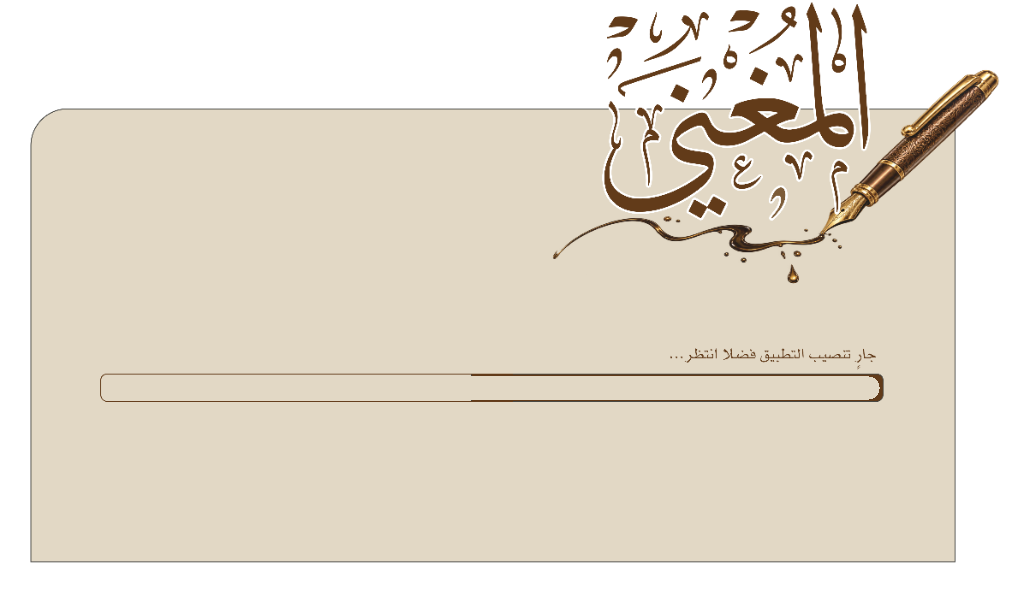
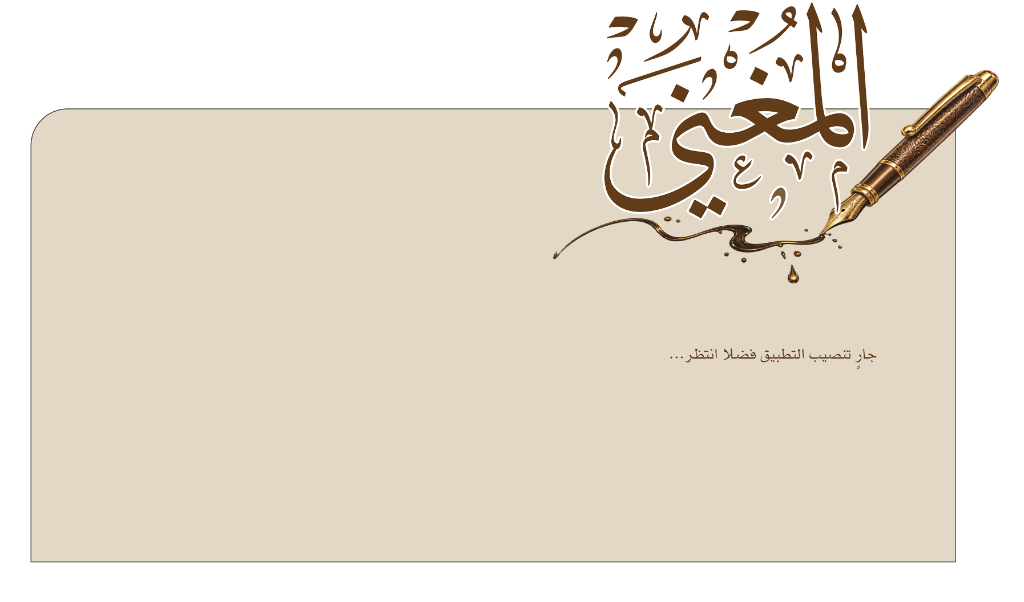
1.10.571: لوحة التنصيب هي الصورة الجديدة كما هي

diff --git a/macos/AlMujtahedLauncher.swift b/macos/AlMujtahedLauncher.swift
@@ -545,17 +545,12 @@ final class Launcher: NSObject, NSApplicationDelegate, NSWindowDelegate {
     private var lastSampleAt = Date()
     private var lastSampleBytes: Int64 = 0
     private var speedBps: Double = 0
-    private var boardView: NSImageView?
-    private var boardBase: CGImage?
-    private var boardPoint = NSSize.zero
-    private var boardBacking: CGFloat = 2
-    private var boardShown = -1
     private var etaSeconds: TimeInterval = -1
     private var etaMarkedAt = Date()
     private let support = FileManager.default.homeDirectoryForCurrentUser
         .appendingPathComponent("Library/Application Support/Al-Mujtahed", isDirectory: true)
     private var statusURL: URL { support.appendingPathComponent("status.txt") }
-    private let interfaceURL = URL(string: "http://127.0.0.1:8085/?v=1.10.570")!
+    private let interfaceURL = URL(string: "http://127.0.0.1:8085/?v=1.10.571")!
     private let ink = NSColor(srgbRed: 0.165, green: 0.133, blue: 0.102, alpha: 1)
     private let clay = NSColor(srgbRed: 0.710, green: 0.416, blue: 0.298, alpha: 1)
     private let emerald = NSColor(srgbRed: 0.184, green: 0.435, blue: 0.369, alpha: 1)
@@ -686,7 +681,7 @@ final class Launcher: NSObject, NSApplicationDelegate, NSWindowDelegate {
     }
 
     private var appVersion: String {
-        Bundle.main.object(forInfoDictionaryKey: "CFBundleShortVersionString") as? String ?? "1.10.570"
+        Bundle.main.object(forInfoDictionaryKey: "CFBundleShortVersionString") as? String ?? "1.10.571"
     }
 
     private func buildWindow() {
@@ -828,26 +823,6 @@ final class Launcher: NSObject, NSApplicationDelegate, NSWindowDelegate {
             board.image = image
             board.layer?.contentsScale = scale
             content.addSubview(board)
-            boardView = board
-            boardPoint = point
-            boardBacking = scale
-            if let data = try? Data(contentsOf: url),
-               let source = CGImageSourceCreateWithData(data as CFData, nil) {
-                boardBase = CGImageSourceCreateImageAtIndex(source, 0, nil)
-            }
-            let hit = NSButton(frame: NSRect(
-                x: 634 / scale,
-                y: (pixels.height - 525) / scale,
-                width: 218 / scale,
-                height: 48 / scale
-            ))
-            hit.title = ""
-            hit.isBordered = false
-            hit.isTransparent = true
-            hit.target = self
-            hit.action = #selector(deleteApplication)
-            content.addSubview(hit)
-            paintBoard(percent: 0)
         } else {
             content.addSubview(board)
         }
@@ -1120,71 +1095,6 @@ final class Launcher: NSObject, NSApplicationDelegate, NSWindowDelegate {
         stopListener(port: 8085, marker: "server.py")
     }
 
-    /// الشريط وزر الحذف يُرسمان على بكسلات الصورة كما هي، والنافذة بنصفها على شاشة ريتينا حتى لا تُكبَّر فتبهت.
-    private func paintBoard(percent: Double) {
-        guard let base = boardBase, let boardView else { return }
-        let shown = Int(percent.rounded())
-        if shown == boardShown { return }
-        boardShown = shown
-        let width = base.width
-        let height = base.height
-        guard let ctx = CGContext(
-            data: nil,
-            width: width,
-            height: height,
-            bitsPerComponent: 8,
-            bytesPerRow: 0,
-            space: base.colorSpace ?? CGColorSpaceCreateDeviceRGB(),
-            bitmapInfo: CGImageAlphaInfo.premultipliedLast.rawValue | CGBitmapInfo.byteOrder32Big.rawValue
-        ) else { return }
-        ctx.interpolationQuality = .none
-        ctx.draw(base, in: CGRect(x: 0, y: 0, width: width, height: height))
-        let track = CGRect(x: 104, y: CGFloat(height) - 399, width: 775, height: 23)
-        let fraction = max(0, min(1, percent / 100))
-        ctx.saveGState()
-        ctx.addPath(CGPath(roundedRect: track, cornerWidth: 11, cornerHeight: 11, transform: nil))
-        ctx.clip()
-        let fillWidth = track.width * CGFloat(fraction)
-        if fillWidth > 0 {
-            ctx.setFillColor(CGColor(srgbRed: 98 / 255, green: 59 / 255, blue: 25 / 255, alpha: 1))
-            ctx.fill(CGRect(x: track.maxX - fillWidth, y: track.minY, width: fillWidth, height: track.height))
-        }
-        ctx.restoreGState()
-        let onFill = fraction >= 0.5
-        let ink = onFill
-            ? NSColor(srgbRed: 241 / 255, green: 230 / 255, blue: 210 / 255, alpha: 1)
-            : NSColor(srgbRed: 98 / 255, green: 59 / 255, blue: 25 / 255, alpha: 1)
-        drawCentered("\(shown)٪", in: track, context: ctx, color: ink, size: 13)
-        let button = CGRect(x: 634, y: CGFloat(height) - 525, width: 218, height: 48)
-        ctx.setFillColor(CGColor(srgbRed: 98 / 255, green: 59 / 255, blue: 25 / 255, alpha: 1))
-        ctx.addPath(CGPath(roundedRect: button, cornerWidth: 16, cornerHeight: 16, transform: nil))
-        ctx.fillPath()
-        drawCentered(
-            "حذف التطبيق",
-            in: button,
-            context: ctx,
-            color: NSColor(srgbRed: 241 / 255, green: 230 / 255, blue: 210 / 255, alpha: 1),
-            size: 20
-        )
-        guard let painted = ctx.makeImage() else { return }
-        boardView.image = NSImage(cgImage: painted, size: boardPoint)
-        boardView.layer?.contentsScale = boardBacking
-    }
-
-    private func drawCentered(_ text: String, in rect: CGRect, context ctx: CGContext, color: NSColor, size: CGFloat) {
-        let font = CTFontCreateWithName(almarai(size, bold: true).fontName as CFString, size, nil)
-        let line = CTLineCreateWithAttributedString(NSAttributedString(string: text, attributes: [
-            .font: font,
-            .foregroundColor: color
-        ]))
-        var ascent: CGFloat = 0
-        var descent: CGFloat = 0
-        let textWidth = CGFloat(CTLineGetTypographicBounds(line, &ascent, &descent, nil))
-        ctx.textMatrix = .identity
-        ctx.textPosition = CGPoint(x: rect.midX - textWidth / 2, y: rect.midY - (ascent - descent) / 2)
-        CTLineDraw(line, ctx)
-    }
-
     private func refreshProgress(resetSpeed: Bool) {
         if ready { return }
         var message = currentStatus()
@@ -1214,7 +1124,6 @@ final class Launcher: NSObject, NSApplicationDelegate, NSWindowDelegate {
             : percent
         progressBar.fraction = CGFloat(shown / 100)
         percentValue.stringValue = "\(Int(shown.rounded()))%"
-        paintBoard(percent: shown)
         if installing {
             speedCaption?.stringValue = "نسبة التركيب"
             loadedCaption?.stringValue = ""
@@ -1294,7 +1203,6 @@ final class Launcher: NSObject, NSApplicationDelegate, NSWindowDelegate {
         readyAt = Date()
         progressBar.fraction = 1
         percentValue.stringValue = "100%"
-        paintBoard(percent: 100)
         speedValue.stringValue = speedText()
         let transfer = transferState()
         if transfer.received > 0 {

diff --git a/web_ui/templates/index.html b/web_ui/templates/index.html
@@ -7,7 +7,7 @@
     <title>المجتهد | من الفكرة إلي النشر</title>
     <meta name="description"
         content="منظومة المجتهد - من الفكرة إلي النشر، مع محادثة ذكية ووكلاء مساعدين">
-    <link rel="stylesheet" href="/static/css/claude_theme.css?v=1.10.570">
+    <link rel="stylesheet" href="/static/css/claude_theme.css?v=1.10.571">
     <link rel="preconnect" href="https://fonts.googleapis.com">
     <link rel="preconnect" href="https://fonts.gstatic.com" crossorigin>
     <link
@@ -25,8 +25,8 @@
         <div class="header-top">
             <div class="brand-section">
                 <div class="brand-title">
-                    <img class="brand-mark" src="/static/brand-mark.png?v=1.10.570" alt="المجتهد">
-                    <span class="brand-version" id="appVersionLabel">إصدار رقم 1.10.570 (نسخة تجريبية)</span>
+                    <img class="brand-mark" src="/static/brand-mark.png?v=1.10.571" alt="المجتهد">
+                    <span class="brand-version" id="appVersionLabel">إصدار رقم 1.10.571 (نسخة تجريبية)</span>
                 </div>
                 <span class="brand-subtitle-1">من الفكرة إلي النشر</span>
             </div>
@@ -6045,7 +6045,7 @@
     <script src="/static/js/markmap-lib.min.js"></script>
     <script src="/static/js/g6.min.js"></script>
     <script src="/static/js/g2.min.js"></script>
-    <script src="/static/js/app.js?v=1.10.570"></script>
+    <script src="/static/js/app.js?v=1.10.571"></script>
     <script src="/static/js/search.js?v=1.10.493"></script>
     <script src="/static/js/reader.js?v=1.10.493"></script>
     <script src="/static/js/force3d.js?v=1.10.493"></script>
@@ -6053,12 +6053,12 @@
     <script src="/static/js/chat.js?v=1.10.493"></script>
     <script src="/static/js/designs.js?v=1.10.493"></script>
     <script src="/static/js/texts.js?v=1.10.493"></script>
-    <script src="/static/js/agents.js?v=1.10.570"></script>
+    <script src="/static/js/agents.js?v=1.10.571"></script>
     <script src="/static/js/providers.js?v=1.10.493"></script>
     <script src="/static/js/tools.js?v=1.10.493"></script>
     <script src="/static/js/shamela_link.js?v=1.10.493"></script>
     <script src="/static/js/projects.js?v=1.10.493"></script>
-    <script src="/static/js/manuscripts.js?v=1.10.570"></script>
+    <script src="/static/js/manuscripts.js?v=1.10.571"></script>
     <script src="/static/js/archive.js?v=1.10.493"></script>
     <script src="/static/js/compare.js?v=1.10.493"></script>
     <script src="/static/js/local_models.js?v=1.10.493"></script>

diff --git a/web_ui/templates/auth.html b/web_ui/templates/auth.html
@@ -259,7 +259,7 @@
                 <div class="auth-logo" id="authLogo">🌟</div>
                 <div class="auth-title-row">
                     <h1 class="auth-title" id="authTitle">منظومة المجتهد</h1>
-                    <p class="auth-version" id="appVersionLabel">إصدار رقم 1.10.570 (نسخة تجريبية)</p>
+                    <p class="auth-version" id="appVersionLabel">إصدار رقم 1.10.571 (نسخة تجريبية)</p>
                 </div>
                 <p class="auth-subtitle" id="authSubtitle">من الفكرة إلي النشر</p>
             </div>

diff --git a/windows/AlMujtahedApp.cs b/windows/AlMujtahedApp.cs
@@ -169,7 +169,6 @@ sealed class InstallerForm : Form
     readonly SoftButton reinstallButton;
     readonly PictureBox boardBox;
     Bitmap? boardBase;
-    int boardShown = -1;
     readonly Panel card;
     readonly BookIcon book;
     readonly HttpClient http = new() { Timeout = TimeSpan.FromSeconds(2) };
@@ -269,15 +268,6 @@ sealed class InstallerForm : Form
         foreach (Control control in Controls)
             control.Visible = false;
         Controls.Add(boardBox);
-        boardBox.MouseMove += (_, e) =>
-        {
-            boardBox.Cursor = DeleteHit(e.Location) ? Cursors.Hand : Cursors.Default;
-        };
-        boardBox.MouseClick += (_, e) =>
-        {
-            if (e.Button == MouseButtons.Left && DeleteHit(e.Location))
-                DeleteApplication();
-        };
         FormBorderStyle = FormBorderStyle.None;
         AllowTransparency = true;
         TransparencyKey = boardKey;
@@ -354,80 +344,6 @@ sealed class InstallerForm : Form
             Math.Max(1, (int)Math.Round(width * 96.0 / dpi)),
             Math.Max(1, (int)Math.Round(height * 96.0 / dpi)));
         boardBox.Bounds = ClientRectangle;
-    }
-
-    bool DeleteHit(Point point)
-    {
-        if (boardBase == null || boardBox.Width < 2 || boardBox.Height < 2) return false;
-        var x = point.X * boardBase.Width / (double)boardBox.Width;
-        var y = point.Y * boardBase.Height / (double)boardBox.Height;
-        return x >= 634 && x <= 852 && y >= 477 && y <= 525;
-    }
-
-    void PaintBoard(double percent)
-    {
-        if (boardBase == null) return;
-        var shown = (int)Math.Round(percent);
-        if (shown == boardShown) return;
-        boardShown = shown;
-        var copy = new Bitmap(boardBase.Width, boardBase.Height, System.Drawing.Imaging.PixelFormat.Format32bppArgb);
-        var dpi = DeviceDpi <= 0 ? 96 : DeviceDpi;
-        copy.SetResolution(dpi, dpi);
-        using (var g = Graphics.FromImage(copy))
-        {
-            g.SmoothingMode = SmoothingMode.AntiAlias;
-            g.InterpolationMode = InterpolationMode.NearestNeighbor;
-            g.PixelOffsetMode = PixelOffsetMode.Half;
-            g.TextRenderingHint = TextRenderingHint.AntiAliasGridFit;
-            g.DrawImage(boardBase, 0, 0, boardBase.Width, boardBase.Height);
-            var track = new Rectangle(104, 376, 775, 23);
-            using (var path = BoardPill(track, 11))
-            {
-                g.SetClip(path);
-                var fraction = Math.Max(0, Math.Min(1, percent / 100));
-                var fillWidth = (float)(track.Width * fraction);
-                if (fillWidth > 0)
-                {
-                    using var brush = new SolidBrush(Color.FromArgb(255, 98, 59, 25));
-                    g.FillRectangle(brush, track.Right - fillWidth, track.Y, fillWidth, track.Height);
-                }
-            }
-            g.ResetClip();
-            var onFill = percent >= 50;
-            using var textBrush = new SolidBrush(onFill
-                ? Color.FromArgb(255, 241, 230, 210)
-                : Color.FromArgb(255, 98, 59, 25));
-            using var font = new Font("Tahoma", 13, FontStyle.Bold, GraphicsUnit.Pixel);
-            using var format = new StringFormat
-            {
-                Alignment = StringAlignment.Center,
-                LineAlignment = StringAlignment.Center
-            };
-            g.DrawString($"{shown}٪", font, textBrush, track, format);
-            var button = new Rectangle(634, 477, 218, 48);
-            using (var path = BoardPill(button, 16))
-            using (var brush = new SolidBrush(Color.FromArgb(255, 98, 59, 25)))
-                g.FillPath(brush, path);
-            using var label = new Font("Tahoma", 20, FontStyle.Bold, GraphicsUnit.Pixel);
-            using var cream = new SolidBrush(Color.FromArgb(255, 241, 230, 210));
-            g.DrawString("حذف التطبيق", label, cream, button, format);
-        }
-        var previous = boardBox.Image;
-        boardBox.Image = copy;
-        if (previous != null && !ReferenceEquals(previous, boardBase))
-            previous.Dispose();
-    }
-
-    static GraphicsPath BoardPill(Rectangle track, int radius)
-    {
-        var path = new GraphicsPath();
-        var diameter = radius * 2;
-        path.AddArc(track.X, track.Y, diameter, diameter, 180, 90);
-        path.AddArc(track.Right - diameter, track.Y, diameter, diameter, 270, 90);
-        path.AddArc(track.Right - diameter, track.Bottom - diameter, diameter, diameter, 0, 90);
-        path.AddArc(track.X, track.Bottom - diameter, diameter, diameter, 90, 90);
-        path.CloseFigure();
-        return path;
     }
 
     void LayoutHeader()
@@ -732,7 +648,7 @@ sealed class InstallerForm : Form
             appWindow = new AppForm();
             appWindow.VisibleChanged += (_, _) => tray.Visible = ready && !Visible && appWindow is { Visible: false };
         }
-        _ = appWindow.Open("http://127.0.0.1:8085/?v=1.10.570");
+        _ = appWindow.Open("http://127.0.0.1:8085/?v=1.10.571");
         tray.Visible = false;
     }
 
@@ -873,7 +789,6 @@ sealed class InstallerForm : Form
             percent = Math.Min(100, Math.Max(transfer.Received, 0) * 100.0 / transfer.Expected);
         progressBar.Fraction = (float)(percent / 100);
         percentValue.Text = $"{(int)Math.Round(percent)}%";
-        PaintBoard(percent);
         var captions = card.Controls.OfType<Label>().Where(label => label.Tag as string == "caption").ToArray();
         if (installing)
         {
@@ -955,7 +870,6 @@ sealed class InstallerForm : Form
         ready = true;
         progressBar.Fraction = 1;
         percentValue.Text = "100%";
-        PaintBoard(100);
         speedValue.Text = SpeedText();
         var transfer = TransferState();
         if (transfer.Received > 0) loadedValue.Text = BytesText(transfer.Received);

diff --git a/web_ui/server.py b/web_ui/server.py
@@ -7631,7 +7631,7 @@ def mcp_open_session(url: str) -> Tuple[str, Optional[str], List[dict]]:
         "params": {
             "protocolVersion": "2024-11-05",
             "capabilities": {},
-            "clientInfo": {"name": "almujtahed", "version": "1.10.570"},
+            "clientInfo": {"name": "almujtahed", "version": "1.10.571"},
         },
     })
     if opened.get("error"):

diff --git a/changes.md b/changes.md
@@ -1,5 +1,9 @@
 # سجل الإصدارات
 
+## 1.10.571 (نسخة تجريبية)
+
+- لوحة التنصيب صارت الصورة الجديدة كما هي، بمقاس بكسلاتها.
+
 ## 1.10.570 (نسخة تجريبية)
 
 - لوحة التنصيب تُعرض بكسلًا مقابل بكسل حتى لا تكبر وتبهت، وزر «حذف التطبيق» مرسوم عليها ويعمل.
